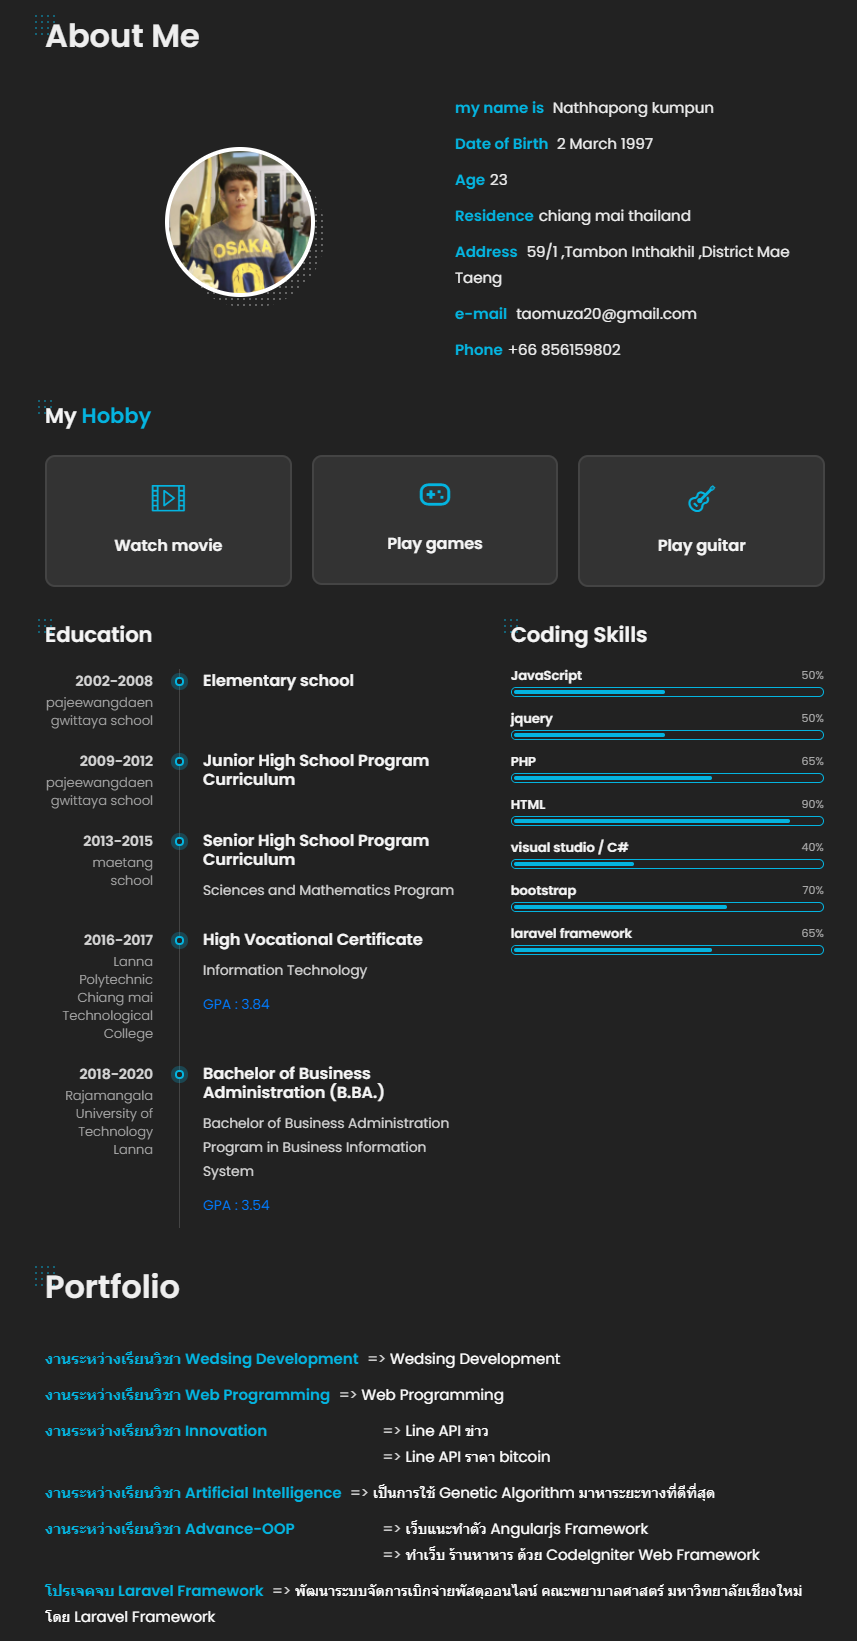
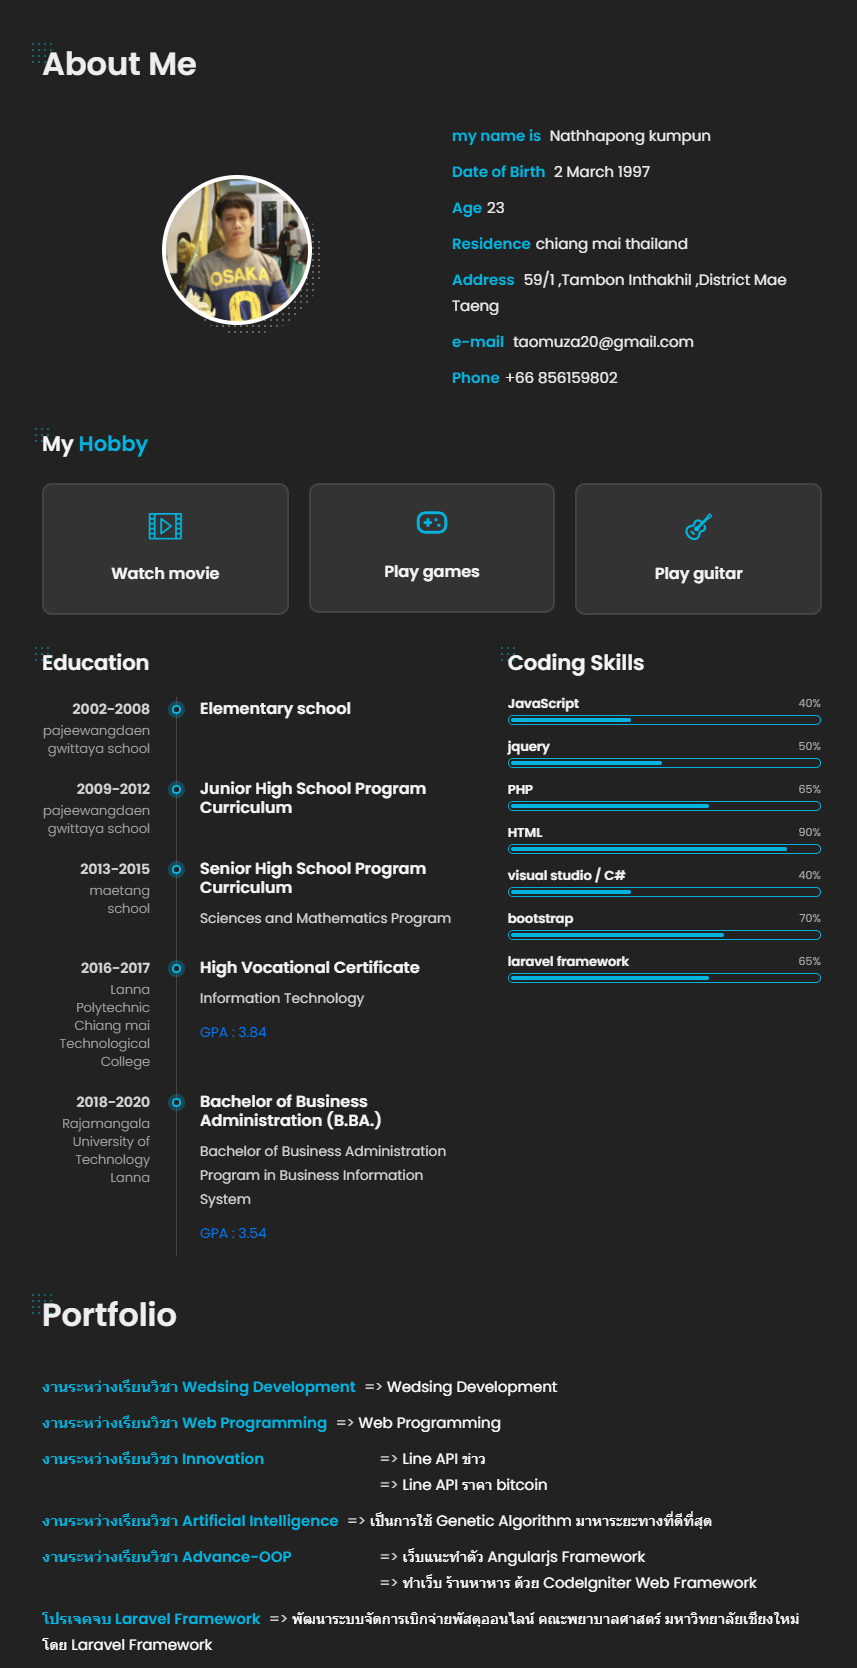
js

diff --git a/index.html b/index.html
@@ -1855,11 +1855,11 @@
 
 																			<div class="clearfix">
 																				<h4>JavaScript</h4>
-																				<div class="skill-value">50%</div>
+																				<div class="skill-value">40%</div>
 																			</div>
 
 																			<div id="skill-skills5fbaaad2fbbd7b8c"
-																				data-value="50" data-color="#04B4E0"
+																				data-value="40" data-color="#04B4E0"
 																				class="skill-container">
 																				<div class="skill-percentage"></div>
 																			</div>
